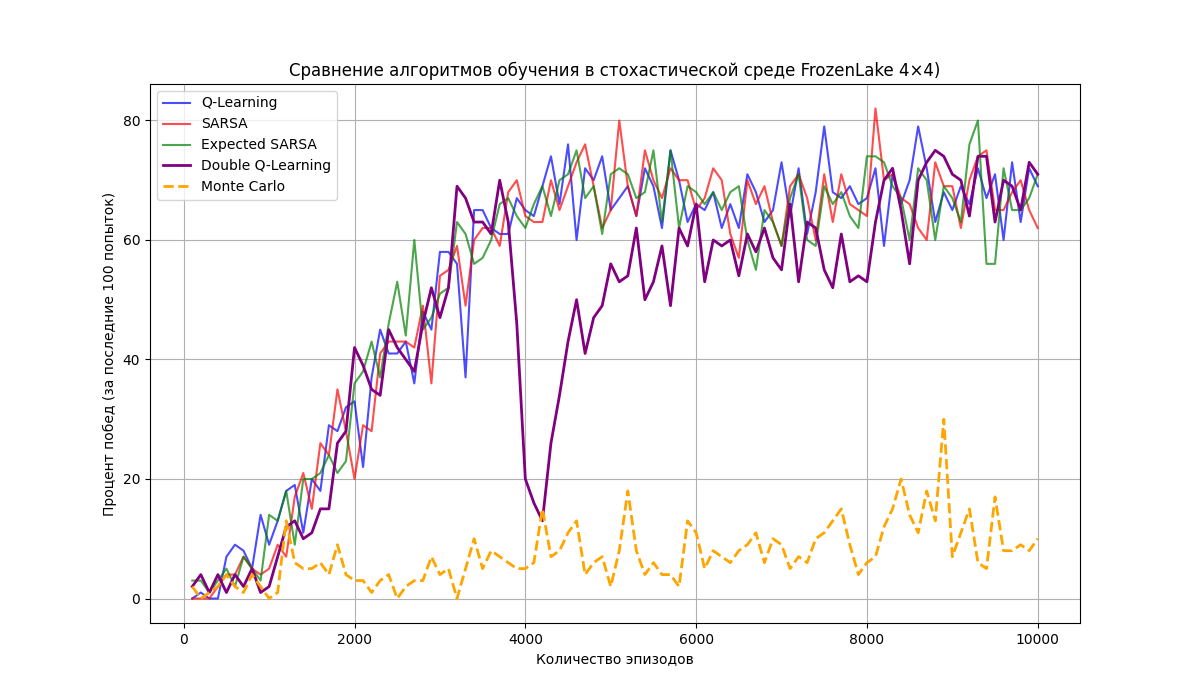
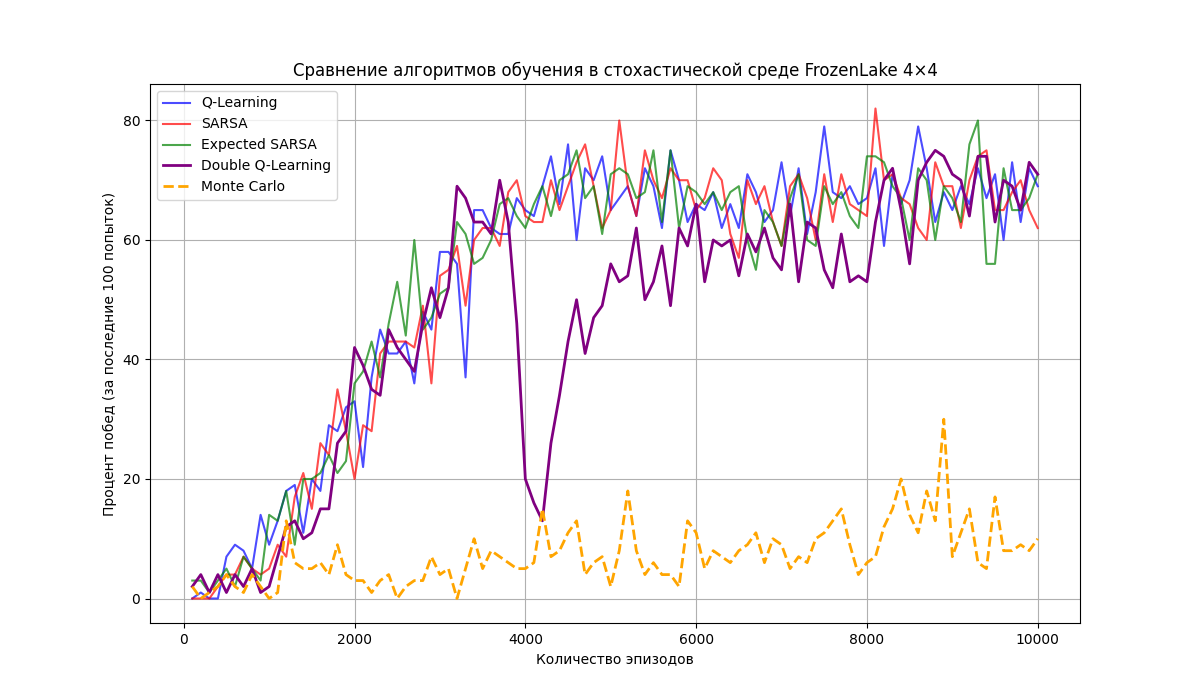
modified:   Graphs/comparison_plot_4x4.png 	modified:   algorithms_4x4.py

Changed region(s): [[0.2467, 0.09, 0.8017, 0.12]]

diff --git a/algorithms_4x4.py b/algorithms_4x4.py
@@ -138,7 +138,7 @@ plt.plot(episodes_x, exp_sarsa_win_rates, label="Expected SARSA", color="green",
 plt.plot(episodes_x, double_q_win_rates, label="Double Q-Learning", color="purple", linewidth=2)
 plt.plot(episodes_x, mc_win_rates, label="Monte Carlo", color="orange", linewidth=2, linestyle='--')
 
-plt.title("Сравнение алгоритмов обучения в стохастической среде FrozenLake 4×4)")
+plt.title("Сравнение алгоритмов обучения в стохастической среде FrozenLake 4×4")
 plt.xlabel("Количество эпизодов")
 plt.ylabel("Процент побед (за последние 100 попыток)")
 plt.legend()
